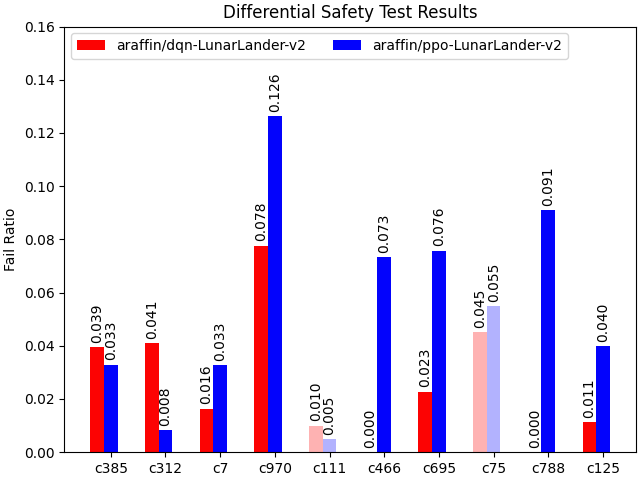
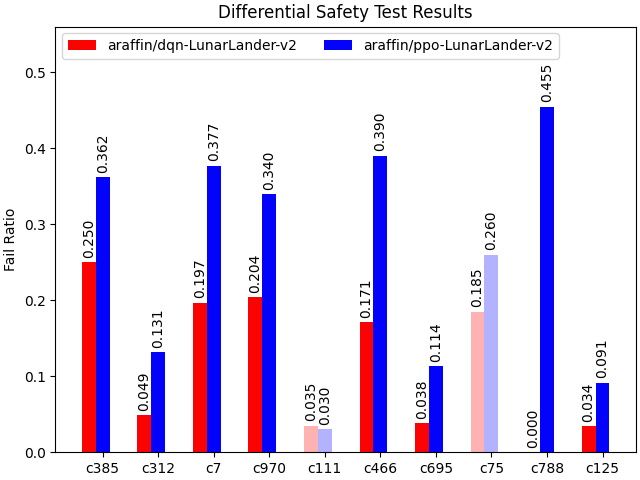
fixed bug in stats script

diff --git a/pickles/diff_testing/paper_diff_results/safety_test_plots.py b/pickles/diff_testing/paper_diff_results/safety_test_plots.py
@@ -6,7 +6,7 @@ import matplotlib.pyplot as plt
 import numpy as np
 from collections import Counter, defaultdict
 
-exp_short = "CP"
+exp_short = "LL"
 if exp_short == "LL":
     pass_string = "Landed"
     fail_string = "Crash"
@@ -75,7 +75,10 @@ for cluster in cluster_names:
                 inconclusive_clusters[cluster] = False
             inconc_added = True
         normalized_pass = result_counter[pass_string]/nr_tests
-        normalized_fail = result_counter[fail_string]/nr_tests
+        normalized_fail = result_counter[fail_string]
+        if exp_short == "LL":
+            normalized_fail += result_counter["Time_out"]
+        normalized_fail = normalized_fail / nr_tests
         normalized_results[policy_name].append(normalized_fail)
         
 
@@ -118,7 +121,7 @@ ax.set_title('Differential Safety Test Results')
 x = np.arange(len(cluster_names))
 ax.set_xticks(x + width, cluster_names)
 ax.legend(loc='upper left', ncols=3)
-ylim = 0.16 if exp_short == "LL" else 1.15
+ylim = 0.56 if exp_short == "LL" else 1.15
 ax.set_ylim(0, ylim)
 #plt.show()
 plt.savefig(f'diff_testing_{exp_name}.png')
